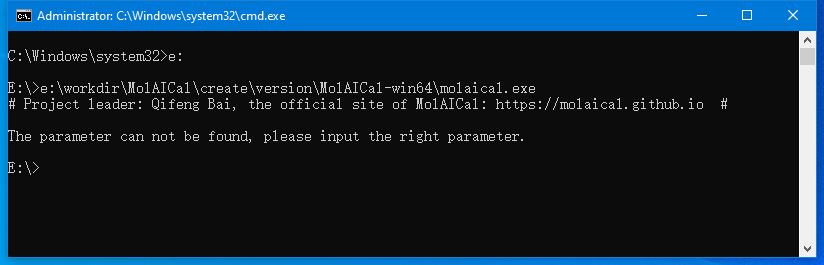
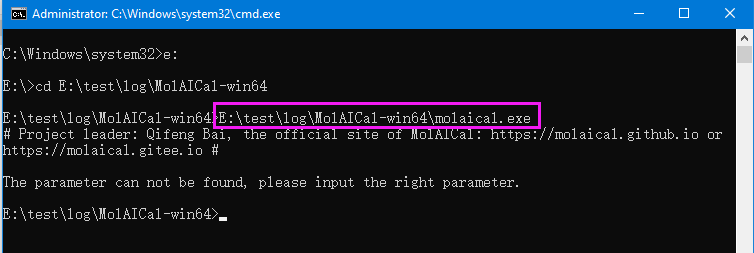
update by bai

Changed region(s): [[0.0, 0.0, 1.0, 1.0], [0.0, 0.0277, 0.366, 0.083], [0.8846, 0.0277, 0.9151, 0.083]]

diff --git a/install.html b/install.html
@@ -108,12 +108,16 @@ a:active {
   <div class="content">
     <h1>Install</h1>
     <p><strong>1) For Window (win64 version of MolAICal):</strong><br />
-      <strong>Firstly,</strong> decompress the MolAICal file. <strong>Secondly,</strong> open the directory of MolAICal in DOS or Powershell. <strong>At last,</strong> input the below command and press <strong>Enter</strong> Key for installation:</p>
+    <strong>Firstly,</strong> decompress the MolAICal file. <strong>Secondly,</strong> change into the directory path of MolAICal in DOS or Powershell by below commands:</p>
+    <p style="color:#00F">#&gt; e:<br />
+      #&gt; cd E:\test\log\MolAICal-win64 <br />
+    </p>
+    <p> <strong>At last,</strong> input the below command and press <strong>Enter</strong> Key for installation:</p>
     <p style="color:#00F">#&gt; install.bat </p>
     <p>It should be like the below terminal:<br />
     <img src="figure/winInstall.png" width="732" height="232" /></p>
     <p>MolAICal is a command-line tool. Users can use the absolute path of MolAICal on DOS or Powershell of Windows. To test MolAICal running, for example: if MolAICal is placed on the E: disk, then users can run the blow example command (Users should modify it according to the actual path of molaical.exe):</p>
-    <p style="color:#00F">#&gt; E:\workdir\MolAICal\create\version\MolAICal-win64\molaical.exe</p>
+    <p style="color:#00F">#&gt; E:\test\log\MolAICal-win64\molaical.exe</p>
     <p>Press <strong>Enter</strong> Key, it should show similar message as follows:<br />
     <img src="figure/dos.png" width="824" height="265" /></p>
     <p>Until now, install and test are complete. </p>
